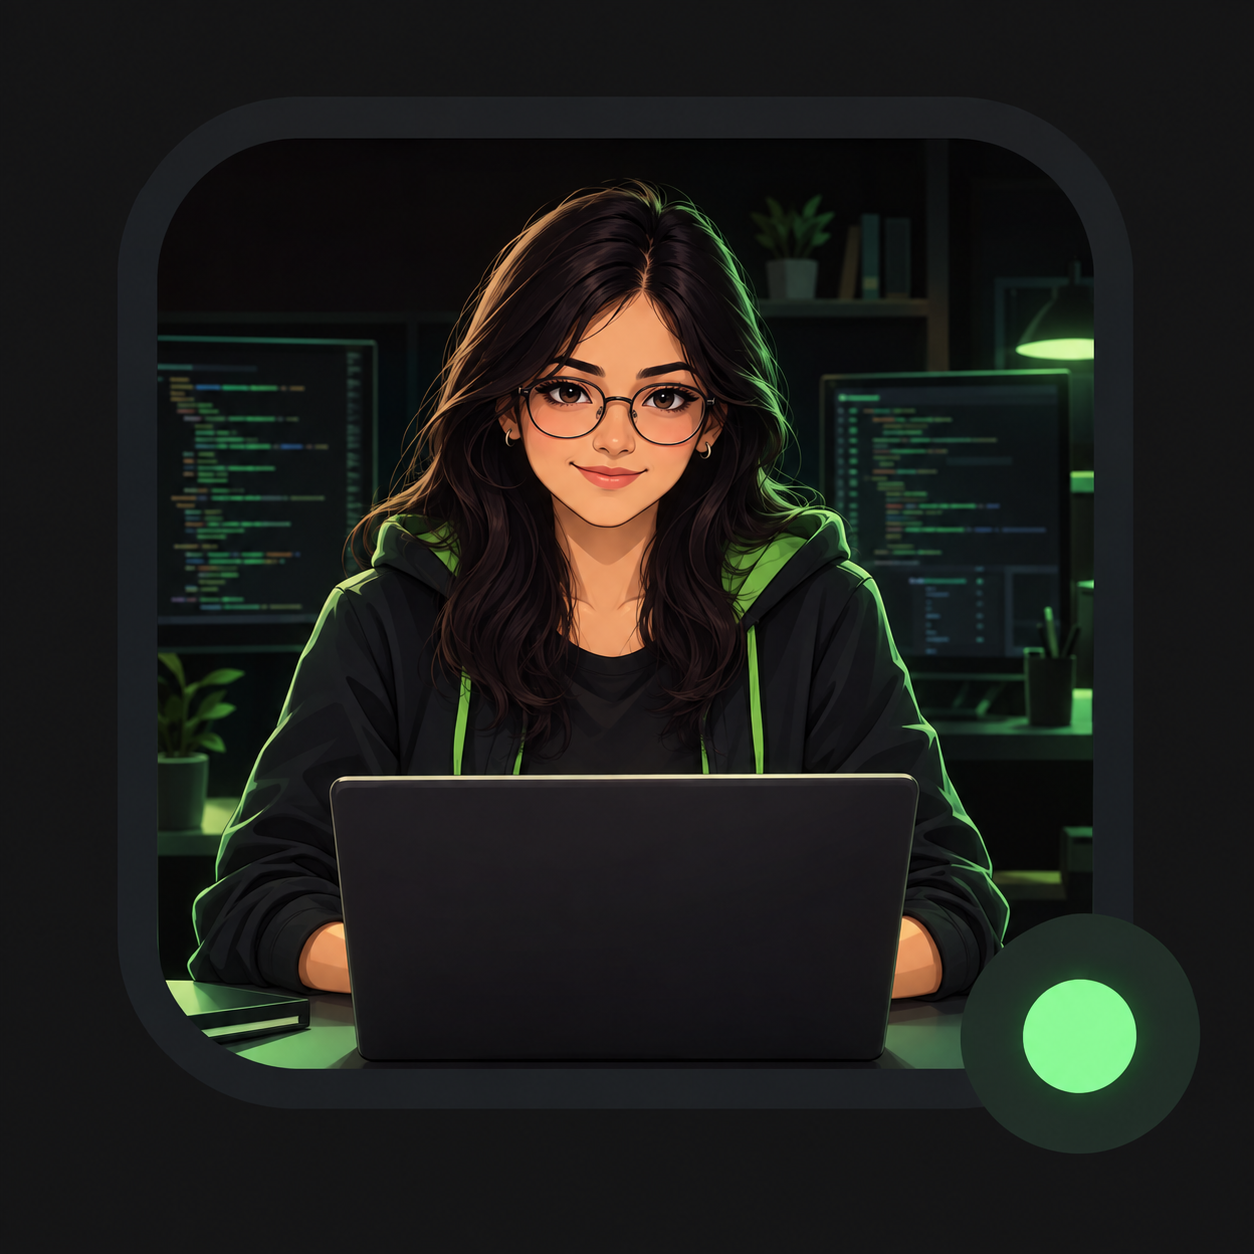
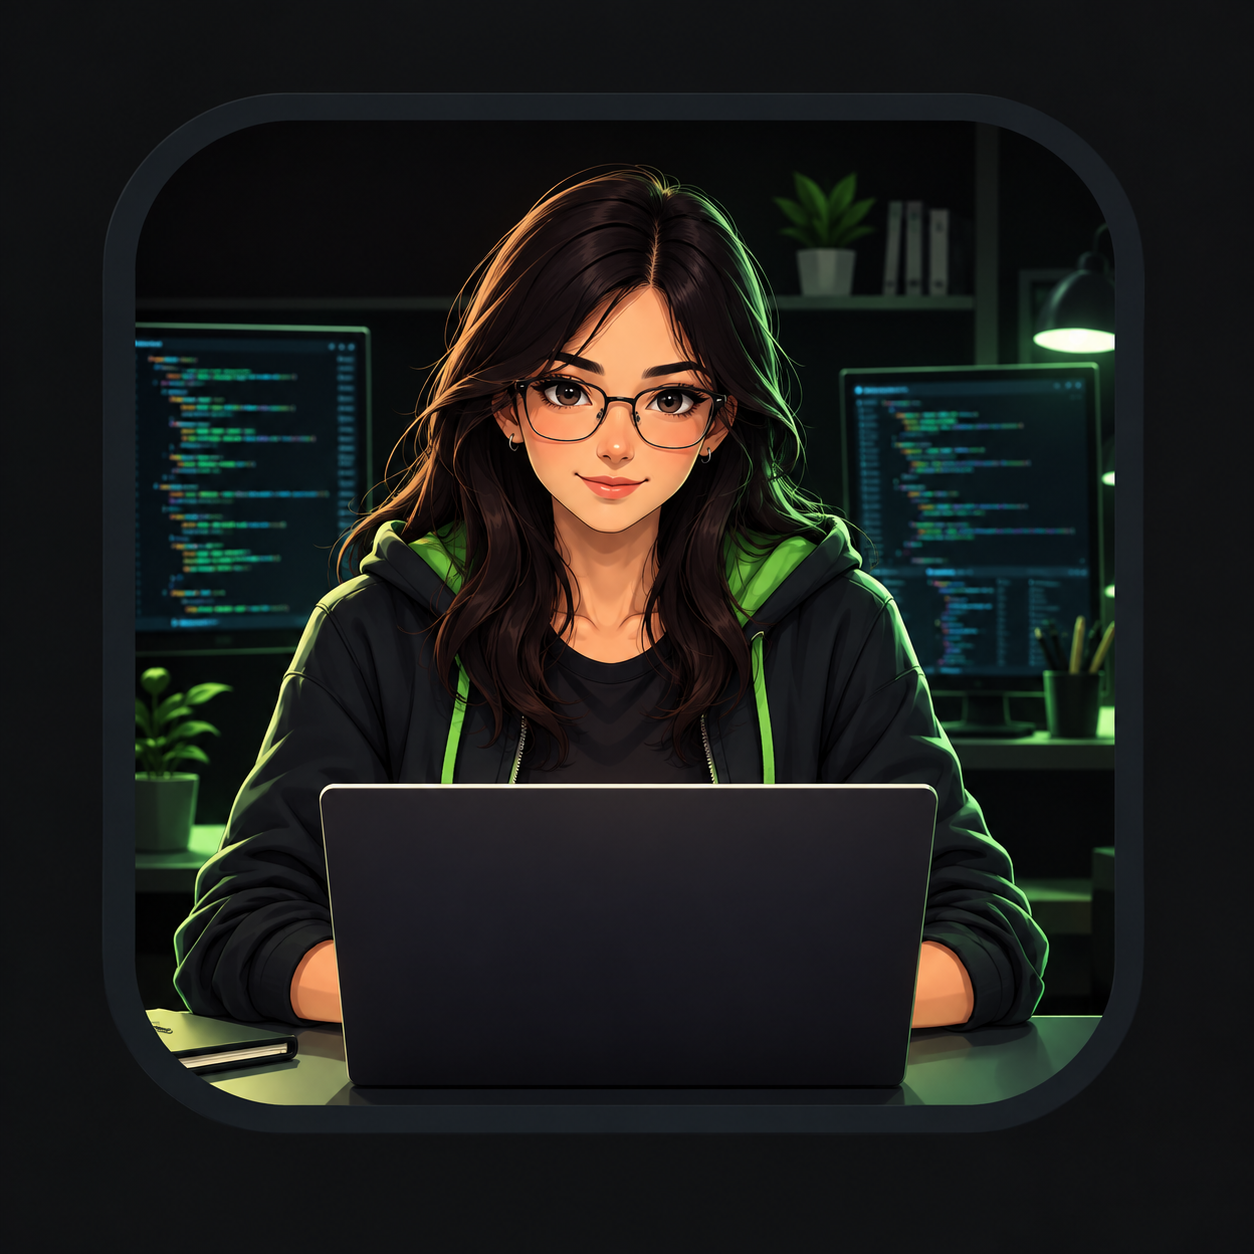
Updates

Changed region(s): [[0.0933, 0.0933, 0.9641, 0.933], [0.8397, 0.3732, 0.9019, 0.4043]]

diff --git a/index.html b/index.html
@@ -29,14 +29,14 @@
         <meta property="og:url" content="https://sansheya11.github.io/sansheya_portfolio/" />
         <meta property="og:title" content="Sansheya Baskar | Full-Stack Developer" />
         <meta property="og:description" content="Full-Stack Developer portfolio by Sansheya Baskar." />
-        <meta property="og:image" content="https://sansheya11.github.io/sansheya_portfolio/images/pictures/profile-picture.jpg" />
+        <meta property="og:image" content="https://sansheya11.github.io/sansheya_portfolio/images/pictures/profile-picture.png" />
 
         <!-- Twitter -->
         <meta property="twitter:card" content="summary_large_image" />
         <meta property="twitter:url" content="https://sansheya11.github.io/sansheya_portfolio/" />
         <meta property="twitter:title" content="Sansheya Baskar | Full-Stack Developer" />
         <meta property="twitter:description" content="Full-Stack Developer portfolio by Sansheya Baskar." />
-        <meta property="twitter:image" content="https://sansheya11.github.io/sansheya_portfolio/images/pictures/profile-picture.jpg" />
+        <meta property="twitter:image" content="https://sansheya11.github.io/sansheya_portfolio/images/pictures/profile-picture.png" />
 
         <!-- Structured Data -->
         <script type="application/ld+json">
